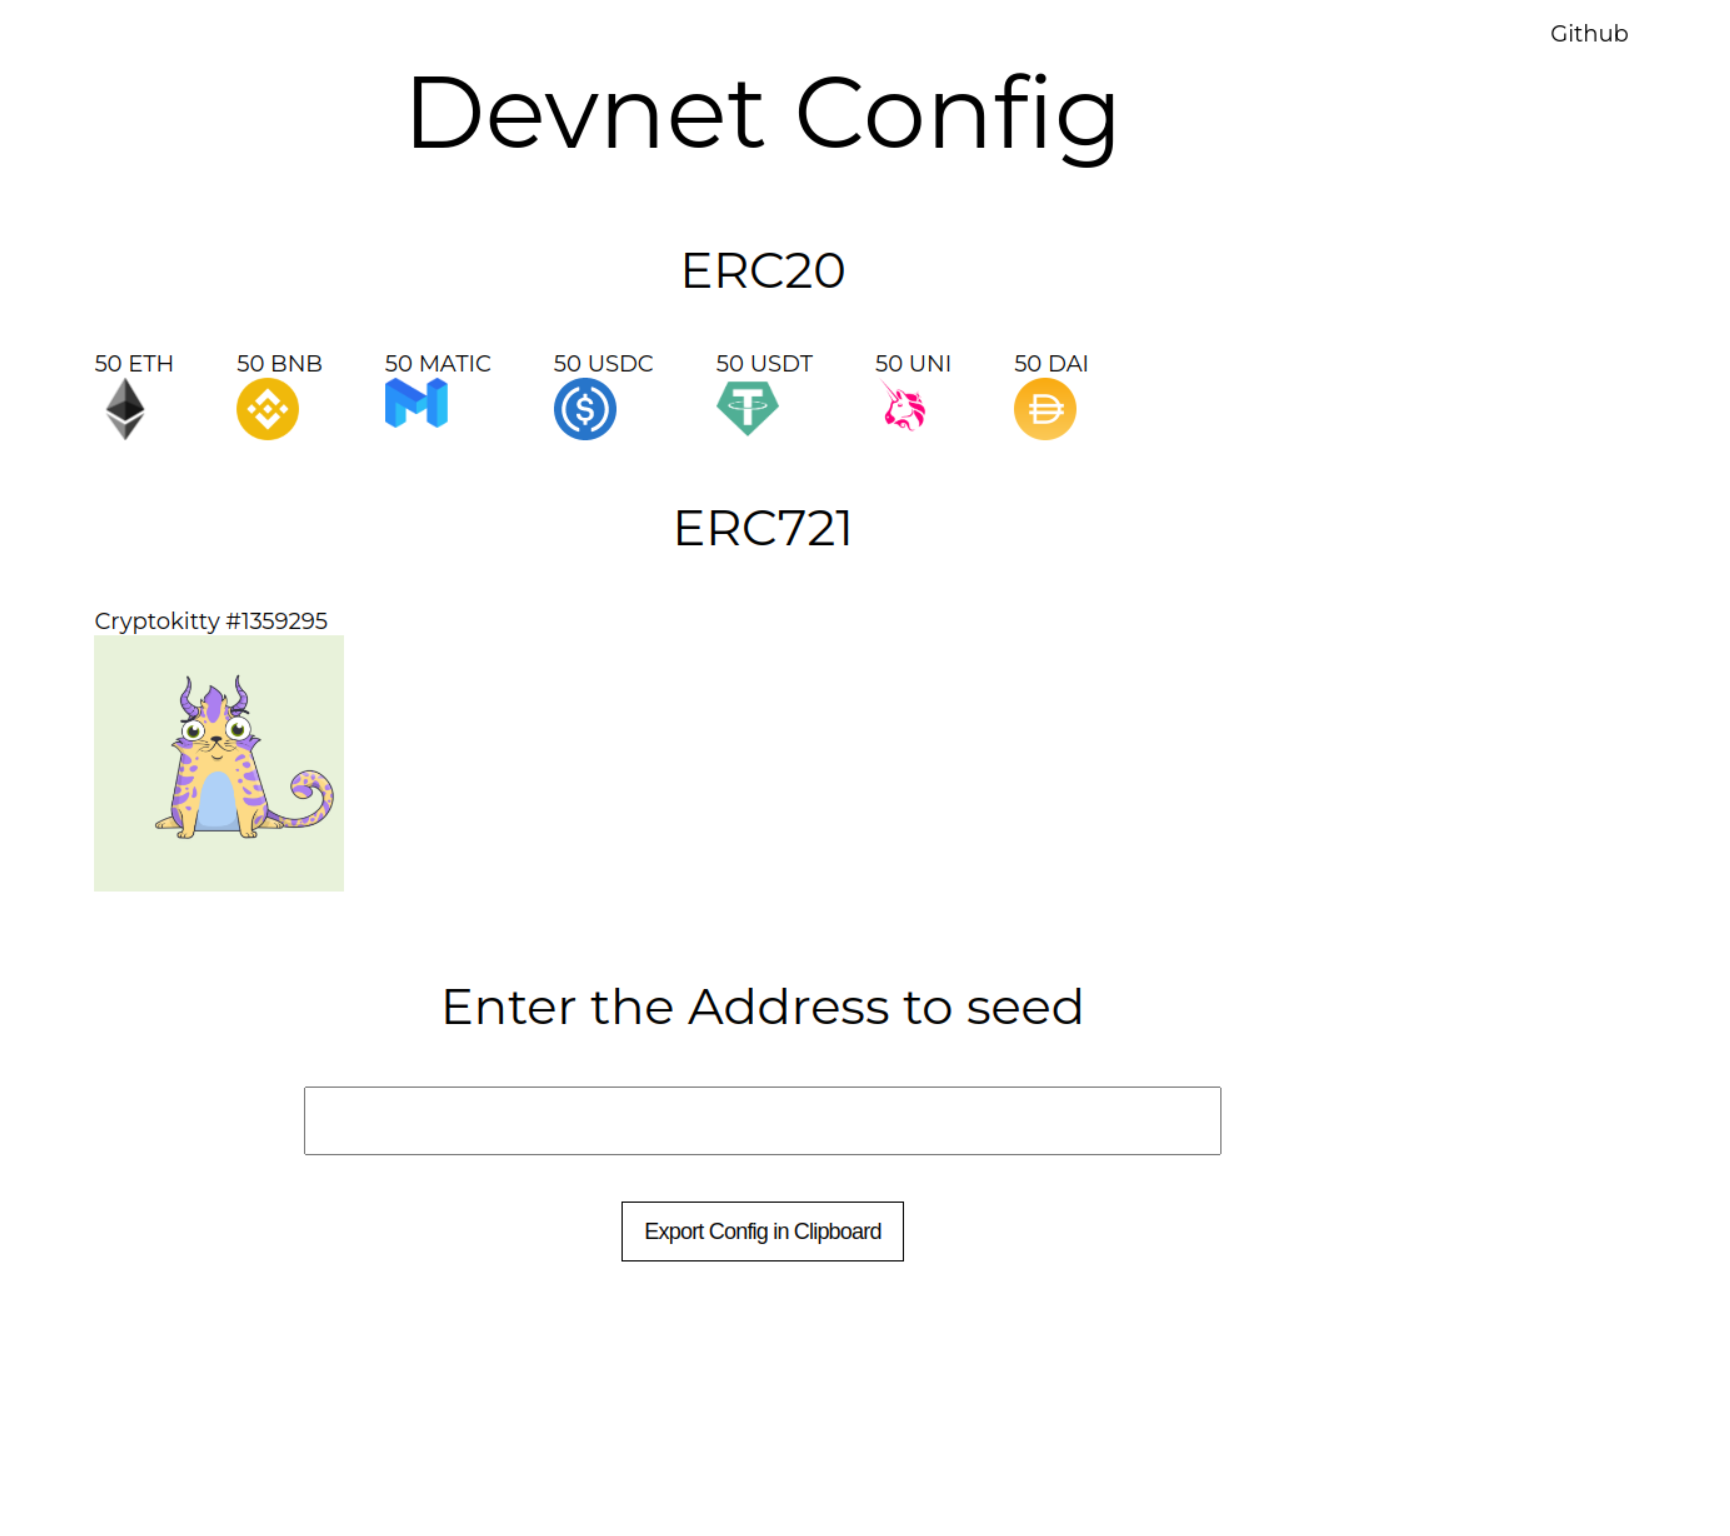
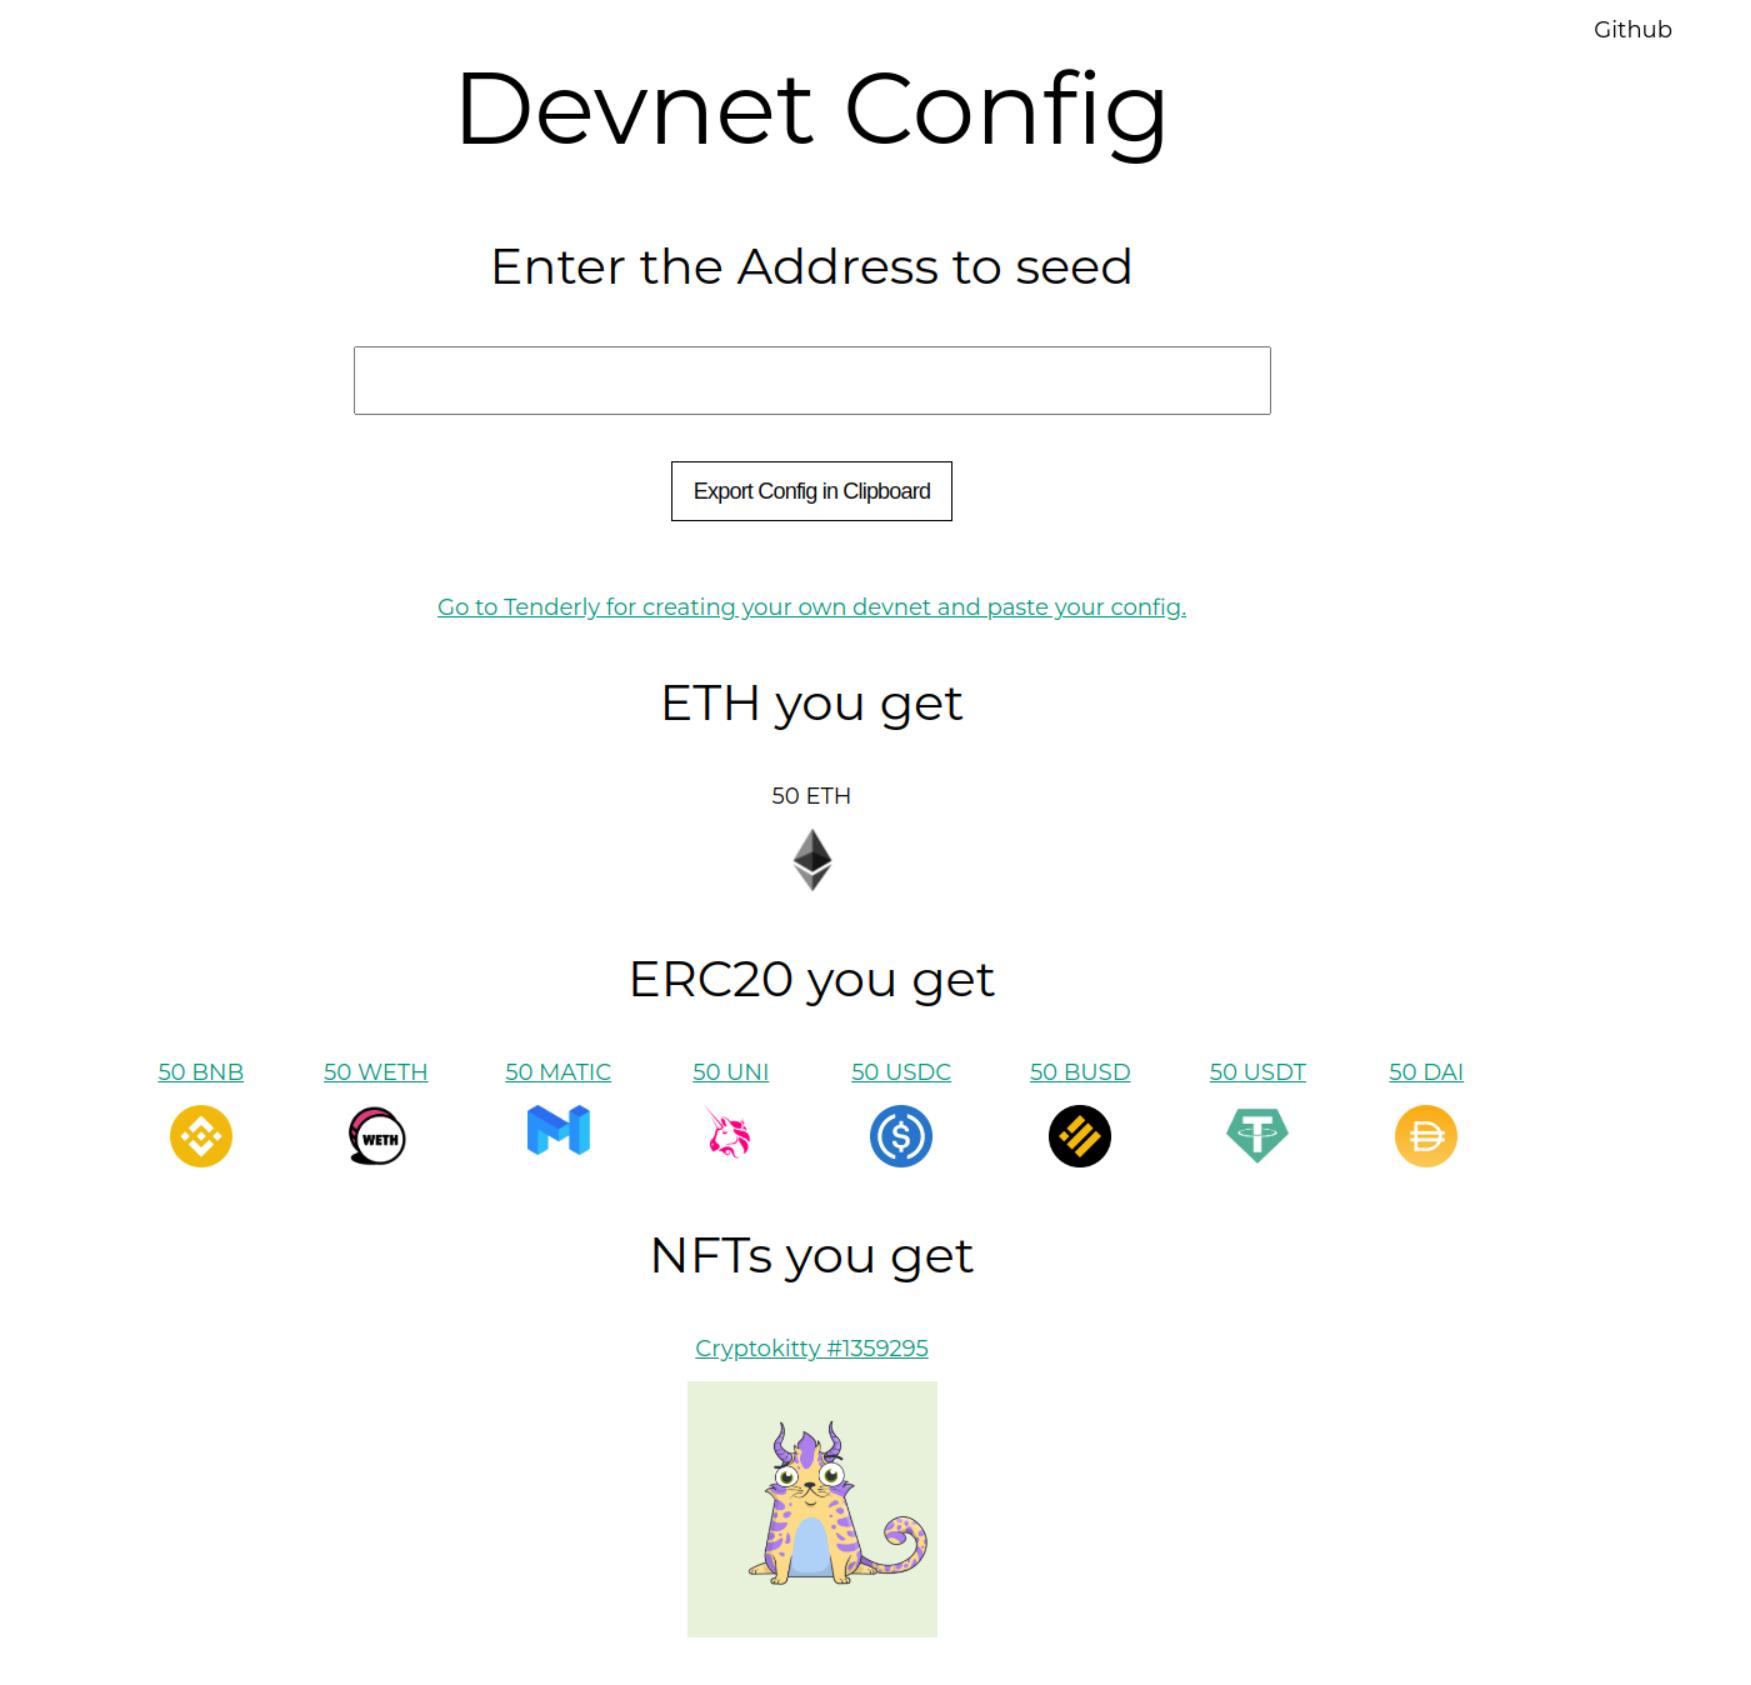
Add config functionality

diff --git a/src/index.html b/src/index.html
@@ -12,62 +12,75 @@
 
 <body>
     <nav class="nav">
-        <a href="/" class="nav__link" data-link>Github</a>
+        <a href="https://github.com/seaona/devnet-config" class="nav__link" data-link target="_blank">Github</a>
     </nav>
     <div id="app"></div>
     <div id="container">
         <h1>Devnet Config</h1>
+        <h3>Enter the Address to seed</h3>
 
-        <h3>ERC20</h3>
+        <div id="input">
+            <input type="text" id="address">
+            <br>
+            <button id="copy">Export Config in Clipboard</button>
+        </div>
+        <div id="result">
+            <p>
+                Your config has been copied to the clipboard.
+            </p>
+
+        </div>
+        <a href="https://dashboard.tenderly.co/" target="_blank">
+            Go to Tenderly for creating your own devnet and paste your config.
+        </a>
+        <h3>ETH you get</h3>
+        <div>
+            <div>50 ETH</div>
+            <img src="./static/eth.png" width="50">
+        </div>
+        <h3>ERC20 you get</h3>
         <div class="columns-3">
             <div>
-                <div>50 ETH</div>
-                <img src="./static/eth.png" width="50">
-            </div>
-            <div>
-                <div>50 BNB</div>
+                <a href="https://etherscan.io/token/0xB8c77482e45F1F44dE1745F52C74426C631bDD52" target="_blank">50 BNB</a>
                 <img src="./static/bnb.png" width="50">
             </div>
             <div>
-                <div>50 MATIC</div>
+                <a href="https://etherscan.io/token/0xc02aaa39b223fe8d0a0e5c4f27ead9083c756cc2" target="_blank">50 WETH</a>
+                <img src="./static/weth.png" width="50">
+            </div>
+            <div>
+                <a href="https://etherscan.io/token/0x7D1AfA7B718fb893dB30A3aBc0Cfc608AaCfeBB0" target="_blank">50 MATIC</a>
                 <img src="./static/matic.png" width="50">
             </div>
             <div>
-                <div>50 USDC</div>
-                <img src="./static/usdc.png" width="50">
-            </div>
-            <div>
-                <div>50 USDT</div>
-                <img src="./static/usdt.png" width="50">
-            </div>
-            <div>
-                <div>50 UNI</div>
+                <a href="https://etherscan.io/token/0x1f9840a85d5af5bf1d1762f925bdaddc4201f984" target="_blank">50 UNI</a>
                 <img src="./static/uni.png" width="50">
             </div>
             <div>
-                <div>50 DAI</div>
+                <a href="https://etherscan.io/token/0xA0b86991c6218b36c1d19D4a2e9Eb0cE3606eB48" target="_blank">50 USDC</a>
+                <img src="./static/usdc.png" width="50">
+            </div>
+            <div>
+                <a href="https://etherscan.io/token/0x4Fabb145d64652a948d72533023f6E7A623C7C53" target="_blank">50 BUSD</a>
+                <img src="./static/busd.jpg" width="50">
+            </div>
+            <div>
+                <a href="https://etherscan.io/token/0xdAC17F958D2ee523a2206206994597C13D831ec7" target="_blank">50 USDT</a>
+                <img src="./static/usdt.png" width="50">
+            </div>
+            <div>
+                <a href="https://etherscan.io/token/0x6B175474E89094C44Da98b954EedeAC495271d0F" target="_blank">50 DAI</a>
                 <img src="./static/dai.png" width="50">
             </div>
         </div>
 
-        <h3>ERC721</h3>
-        <div class="columns-3">
+        <h3>NFTs you get</h3>
             <div>
-                <div>Cryptokitty #1359295</div>
+                <a href="https://opensea.io/assets/ethereum/0x06012c8cf97bead5deae237070f9587f8e7a266d/1359295" target="_blank">Cryptokitty #1359295</a>
+                <br>
                 <img src="./static/cryptokitty.png" width="200">
             </div>
-        </div>
         <br>
-        <h3>Enter the Address to seed</h3>
-
-        <div id="input">
-            <input type="text" id="entry">
-            <br>
-            <button id="copy">Export Config in Clipboard</button>
-        </div>
-        <div class="result">
-            Your Config has been copied to the clipboard
-        </div>
     </div>
 </body>
 </html>

diff --git a/src/static/js/index.js b/src/static/js/index.js
@@ -1,20 +1,85 @@
 /* Event listeners */
 window.onload=function(){
   const copy = document.getElementById("copy");
-  copy.addEventListener("click", copyOnClipboard);
+  copy.addEventListener("click", getConfig);
+  document.getElementById("result").classList.add("hidden");
 }
 
 /* Functions */
 function getConfig() {
+  const address = document.getElementById("address").value.toLowerCase();
+  const addressWithoutPrefix = address.substring(2).toLowerCase();
+  const config = `
+  
+  # Learn how to configure DevNet templates using YAML here: https://docs.tenderly.co/devnets/yaml-template
 
+version: v0
+template:
+  name: my-devnet
+  block-number: latest
+  visibility: TEAM
+  network-id: 1
+  execution:
+    chain-config:
+      chain-id: 1
+    block-gas-limit: 10000000
+    base-fee-per-gas: 1000000000
+  storage:
+    - address: 0xb47e3cd837ddf8e4c57f05d70ab865de6e193bbb # PUNK
+      slots:
+        - 0xbbc70db1b6c7afd11e79c0fb0051300458f1a3acb8ee9789d9b6b26c61ad9bc7: 0x000000000000000000000000${addressWithoutPrefix}
+    - address: 0x57f1887a8BF19b14fC0dF6Fd9B2acc9Af147eA85 # ENS
+      slots:
+        - 0x2eaa2c9551f6c5af9914f3936eb972729afde59fbc6876afeb6236102e88ea1a: 0x000000000000000000000000${addressWithoutPrefix}
+    - address: 0x06012c8cf97BEaD5deAe237070F9587f8E7A266d # CRYPTOKITTIES
+      slots:
+        - 0xd9fbdcbb8ce2d4417e6ad68850ec200e7d37b49be27a4bff9848b9f2d04aa79a: 0x000000000000000000000000${addressWithoutPrefix}
+  balances:
+    - address: ${address}
+      amount: 5000000000000000000
+  erc20:
+    - contract: 0x6B175474E89094C44Da98b954EedeAC495271d0F # DAI
+      balances:
+        - address: ${address}
+          amount: 5000000000000000000
+    - contract: 0x4Fabb145d64652a948d72533023f6E7A623C7C53 # BUSD
+      balances:
+        - address: ${address}
+          amount: 5000000000000000000
+    - contract: 0xC02aaA39b223FE8D0A0e5C4F27eAD9083C756Cc2 # WETH
+      balances:
+        - address: ${address}
+          amount: 5000000000000000000
+    - contract: 0xB8c77482e45F1F44dE1745F52C74426C631bDD52 # BNB
+      balances:
+        - address: ${address}
+          amount: 5000000000000000000
+    - contract: 0x7D1AfA7B718fb893dB30A3aBc0Cfc608AaCfeBB0 # MATIC
+      balances:
+        - address: ${address}
+          amount: 5000000000000000000
+    - contract: 0x1f9840a85d5aF5bf1D1762F925BDADdC4201F984 # UNI
+      balances:
+        - address: ${address}
+          amount: 5000000000000000000
+    - contract: 0xA0b86991c6218b36c1d19D4a2e9Eb0cE3606eB48 # USDC
+      balances:
+        - address: ${address}
+          amount: 5000000000000000000
+    - contract: 0xdAC17F958D2ee523a2206206994597C13D831ec7 # USDT
+      balances:
+        - address: ${address}
+          amount: 5000000
+  `
   copyOnClipboard(config);
-  document.getElementsByClassName("result").addClass()
+  document.getElementById("result").classList.remove("hidden");
+  document.getElementById("result").classList.add("visible");
 }
 
 function copyOnClipboard(text) {
   var dummy = document.createElement("textarea");
   document.body.appendChild(dummy);
-  dummy.value = "AKSDLASKHDAS";
+  dummy.value = text;
   dummy.select();
   document.execCommand("copy");
   document.body.removeChild(dummy);

diff --git a/src/static/css/index.css b/src/static/css/index.css
@@ -2,6 +2,7 @@ body {
     margin: 0 0 0 var(--nav-width);
     font-family: 'Montserrat', sans-serif;
     font-size: 18px;
+    text-align: center;
 }
 
 .nav {
@@ -133,6 +134,9 @@ button:hover {
   fill: #06f;
 }
 
+img {
+  margin-top: 15px;
+}
 pre {
     white-space: pre-wrap;       /* Since CSS 2.1 */
     white-space: -moz-pre-wrap;  /* Mozilla, since 1999 */
@@ -155,6 +159,12 @@ pre {
     margin: 3px;
   }
 
-  .result {
+.hidden {
     visibility: hidden;
-  }
+}
+
+.visible {
+    visibility: visible;
+    text-align: center;
+    margin-top: 15px;
+}
